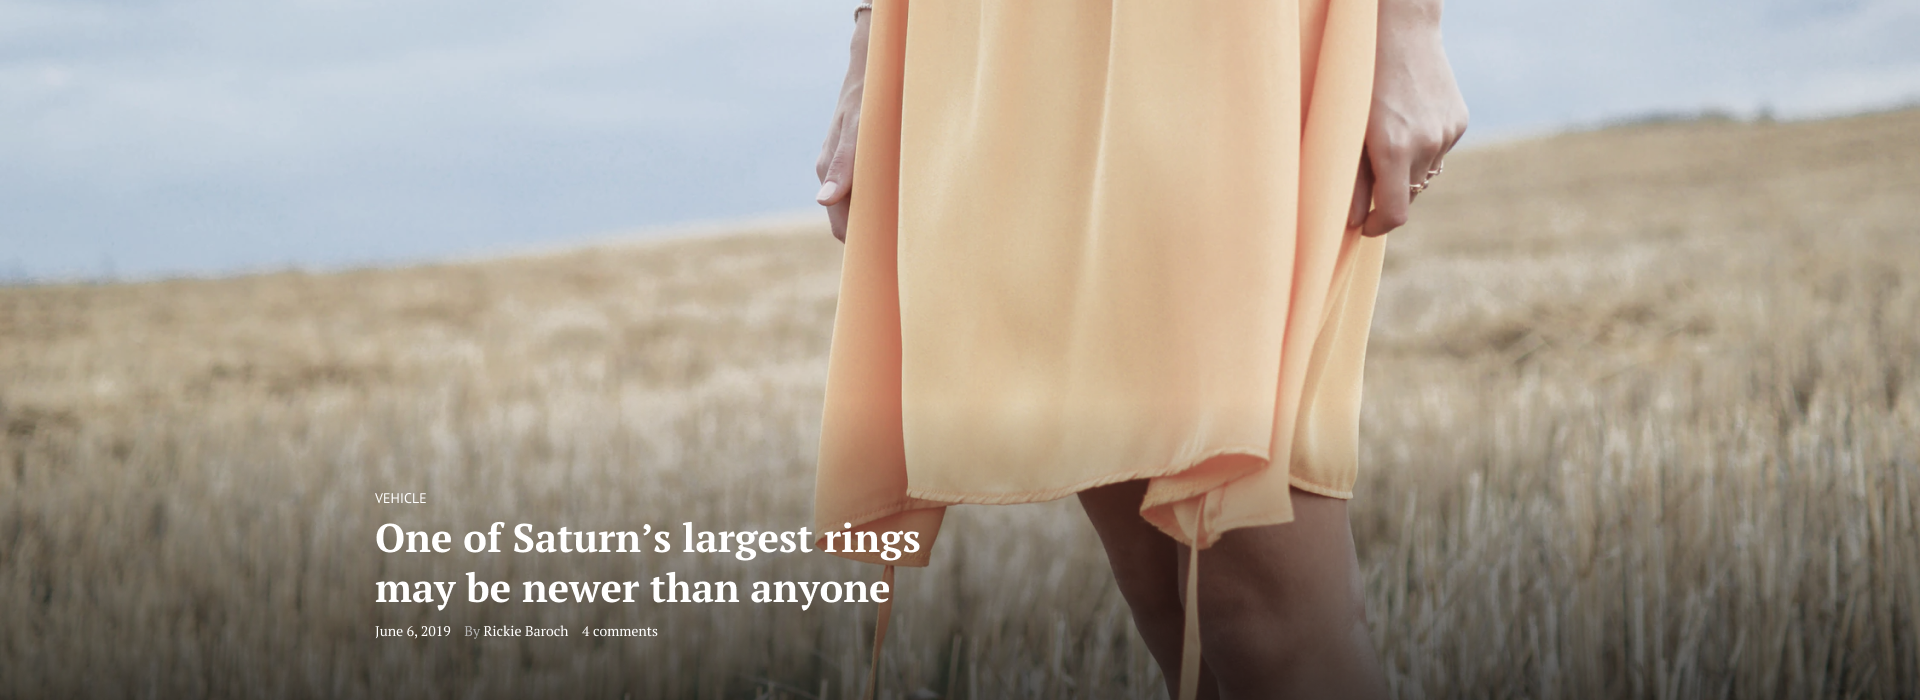
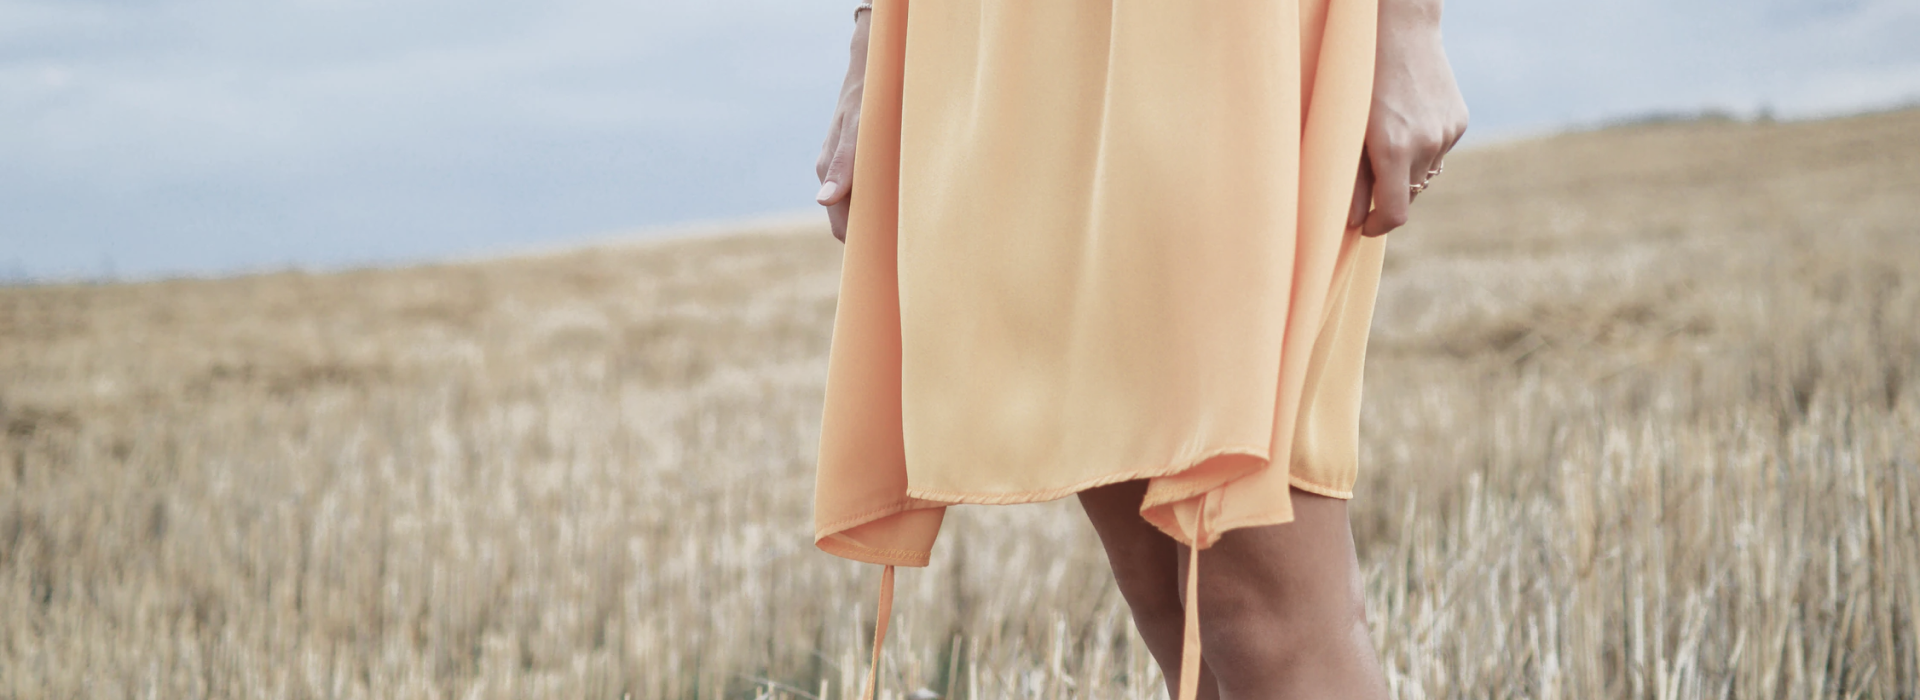
Added and styled header

diff --git a/css/style.css b/css/style.css
@@ -316,3 +316,122 @@ body {
   background-color: #ffffff;
   font-size: 16px;
 }
+
+.header {
+  min-height: 100vh;
+  padding-top: 100px;
+}
+
+.header-content {
+  position: relative;
+  height: calc(100vh - 100px);
+}
+.header-content__link {
+  display: block;
+  height: 100%;
+  width: 100%;
+  text-decoration: none;
+  color: #ffffff;
+}
+.header-content__container {
+  width: 1170px;
+  margin-inline: auto;
+}
+.header-content__content {
+  position: absolute;
+  bottom: 59px;
+}
+.header-content__supertext {
+  font-family: "PT Sans", sans-serif;
+  font-size: 0.875rem;
+  font-weight: 400;
+  margin: 0.375rem 0;
+}
+.header-content__title {
+  font-family: "PT Serif", serif;
+  max-width: 560px;
+  font-size: 2.5rem;
+  font-weight: 700;
+  margin: 0.375rem 0;
+  line-height: 1.25em;
+}
+.header-content__subtext {
+  font-family: "PT Serif", serif;
+  font-size: 0.875rem;
+  font-weight: 400;
+  display: flex;
+  gap: 13px;
+}
+.header-content__subtext-item {
+  display: block;
+  margin: 0.375rem 0;
+}
+.header-content__subtext-accent {
+  color: #b4b4b4;
+}
+.header-content__overlay {
+  background-image: url(../assets/img/Hero.png);
+  background-position: center;
+  background-repeat: no-repeat;
+  position: absolute;
+  top: 0;
+  right: 0;
+  bottom: 0;
+  left: 0;
+  z-index: -1;
+}
+
+.header-menu {
+  position: fixed;
+  top: 0;
+  height: 100px;
+  width: 100%;
+  background-color: #ffffff;
+}
+
+.header-menu__container {
+  width: min(100% - 160px, 1760px);
+  margin-inline: auto;
+  height: 100%;
+  display: flex;
+  justify-content: space-between;
+  align-items: center;
+}
+
+.header-logo__link {
+  position: relative;
+  color: #171717;
+  font-size: 1.5625rem;
+  font-weight: 700;
+  letter-spacing: 0.15rem;
+  text-decoration: none;
+}
+.header-logo__link::after {
+  content: "";
+  position: absolute;
+  display: block;
+  width: 112px;
+  height: 5px;
+  background-color: #c9a96e;
+  opacity: 0.35;
+  transform: translateY(-8px);
+  z-index: -2;
+}
+
+.header-navbar__list {
+  display: flex;
+  gap: 34px;
+}
+.header-navbar__item {
+  list-style-type: none;
+}
+.header-navbar__link {
+  text-decoration: none;
+  font-family: "PT Serif", serif;
+  font-weight: 400;
+  font-size: 0.875rem;
+  color: #171717;
+}
+.header-navbar__link--active {
+  color: #c9a96e;
+}

diff --git a/index.html b/index.html
@@ -12,10 +12,26 @@
 <body>
 
   <header class="header">
+    <div class="header-content">
+      <a href="#" class="header-content__link">
+        <div class="header-content__container">
+          <div class="header-content__content">
+            <p class="header-content__supertext">VEHICLE</p>
+            <h1 class="header-content__title">One of Saturn’s largest rings may be newer than anyone</h1>
+            <div class="header-content__subtext">
+              <p class="header-content__subtext-item">June 6, 2019</p>
+              <p class="header-content__subtext-item"><span class="header-content__subtext-accent">By</span> Rickie Baroch</p>
+              <p class="header-content__subtext-item">4 comments</p>
+            </div>
+          </div>
+          <div class="header-content__overlay"></div>
+        </div>
+      </a>
+    </div>
     <div class="header-menu">
       <div class="header-menu__container">
         <div class="header-logo">
-          <a href="header-logo__link">FASHION</a>
+          <a href="#" class="header-logo__link">FASHION</a>
         </div>
         <nav class="header-navbar">
           <ol class="header-navbar__list">
@@ -38,18 +54,13 @@
         </nav>
       </div>
     </div>
-    <div class="header-content">
-      <div class="header-content__container">
-        <p class="header-content__supertext">Vehicle</p>
-        <h1 class="header-content__title">One of Saturn’s largest rings may be newer than anyone</h1>
-        <div class="header-content__subtext">
-          <p class="header-content__subtext-item">June 6, 2019</p>
-          <p class="header-content__subtext-item"><span class="header-content__subtext-accent">By</span> Rickie Baroch</p>
-          <p class="header-content__subtext-item">4 comments</p>
-        </div>
-      </div>
-    </div>
   </header>
+
+  <main>
+    <section class="content">
+      <div class="content-container"></div>
+    </section>
+  </main>
 
 </body>
 </html>

diff --git a/assets/scss/components/header/_header-content.scss b/assets/scss/components/header/_header-content.scss
@@ -1,0 +1,75 @@
+@use "../../presets" as *;
+
+.header-content {
+  position: relative;
+  height: calc(100vh - 100px);
+
+  &__link {
+    display: block;
+    height: 100%;
+    width: 100%;
+    text-decoration: none;
+    color: $color-white;
+  }
+
+  &__container {
+    width: $container-size;
+    margin-inline: auto;
+  }
+
+  &__content {
+    position: absolute;
+    bottom: 59px;
+  }
+
+  &__supertext {
+    font-family: $font-subtext;
+    font-size: 0.875rem;
+    font-weight: 400;
+    margin: 0.375rem 0;
+  }
+
+  &__title {
+    font-family: $font-main;
+    max-width: 560px;
+    font-size: 2.5rem;
+    font-weight: 700;
+    margin: 0.375rem 0;
+    line-height: 1.25em;
+  }
+
+  &__subtext {
+    font-family: $font-main;
+    font-size: 0.875rem;
+    font-weight: 400;
+    display: flex;
+    gap: 13px;
+
+    &-item {
+      display: block;
+      margin: 0.375rem 0;
+    }
+
+    &-accent {
+      color: $color-gray2;
+    }
+  }
+
+  &__overlay {
+    background-image: url(../assets/img/Hero.png);
+    background-position: center;
+    background-repeat: no-repeat;
+    position: absolute;
+    top: 0;
+    right: 0;
+    bottom: 0;
+    left: 0;
+    z-index: -1;
+  }
+}
+
+
+.header-content__subtext-item {
+}
+.header-content__subtext-accent {
+}

diff --git a/assets/scss/components/header/_header-logo.scss b/assets/scss/components/header/_header-logo.scss
@@ -1,0 +1,25 @@
+@use "../../presets" as *;
+
+.header-logo {
+
+  &__link {
+    position: relative;
+    color: $color-dark;
+    font-size: 1.5625rem;
+    font-weight: 700;
+    letter-spacing: 0.15rem;
+    text-decoration: none;
+
+    &::after {
+      content: "";
+      position: absolute;
+      display: block;
+      width: 112px;
+      height: 5px;
+      background-color: $color-accent;
+      opacity: 0.35;
+      transform: translateY(-8px);
+      z-index: -2;
+    }
+  }
+}

diff --git a/assets/scss/components/header/_header-navbar.scss b/assets/scss/components/header/_header-navbar.scss
@@ -1,0 +1,33 @@
+@use "../../presets" as *;
+
+.header-navbar {
+
+  &__list {
+    display: flex;
+    gap: 34px;
+  }
+
+  &__item {
+    list-style-type: none;
+  }
+
+  &__link {
+    text-decoration: none;
+    font-family: $font-main;
+    font-weight: 400;
+    font-size: 0.875rem;
+    color: $color-dark;
+
+    &--active {
+      color: $color-accent;
+    }
+  }
+}
+.header-navbar__list {
+}
+.header-navbar__item {
+}
+.header-navbar__link {
+}
+.header-navbar__link--active {
+}

diff --git a/assets/scss/presets/_variables.scss b/assets/scss/presets/_variables.scss
@@ -3,7 +3,7 @@ $font-main: "PT Serif", serif;
 $font-subtext: "PT Sans", sans-serif;
 $font-pagination: "Hanken Grotesk", sans-serif;
 $font-size: 16px;
-$container-size: 1300px;
+$container-size: 1170px;
 $ul: 1340px;
 $xl: 1200px;
 $lg: 992px;
@@ -18,3 +18,4 @@ $gap-x2: $gap * 2;
 $gap-x3: $gap * 3;
 $gap-x4: $gap * 4;
 $gap-x5: $gap * 5;
+$gap-x8: $gap * 8;

diff --git a/assets/scss/components/header/_header-menu.scss b/assets/scss/components/header/_header-menu.scss
@@ -1,0 +1,18 @@
+@use "../../presets" as *;
+
+.header-menu {
+  position: fixed;
+  top: 0;
+  height: 100px;
+  width: 100%;
+  background-color: $color-white;
+}
+.header-menu__container {
+  width: min(100% - $gap-x8, 1760px);
+  margin-inline: auto;
+  height: 100%;
+
+  display: flex;
+  justify-content: space-between;
+  align-items: center;
+}

diff --git a/assets/scss/presets/_skin.scss b/assets/scss/presets/_skin.scss
@@ -1,6 +1,7 @@
 $color-white: #ffffff;
 $color-gray-light: #f8f9fa;
 $color-gray: #b1b1b1;
+$color-gray2: #b4b4b4;
 $color-gray-dark: #666666;
 $color-dark: #171717;
 $color-accent: #c9a96e;

diff --git a/assets/scss/components/header/_index.scss b/assets/scss/components/header/_index.scss
@@ -1,1 +1,5 @@
 @forward "header";
+@forward "header-content";
+@forward "header-menu";
+@forward "header-logo";
+@forward "header-navbar";

diff --git a/assets/scss/components/header/_header.scss b/assets/scss/components/header/_header.scss
@@ -1,2 +1,9 @@
-@use "../presets" as *;
+@use "../../presets" as *;
+
+.header {
+  min-height: 100vh;
+  padding-top: 100px;
+  
+}
+
 
